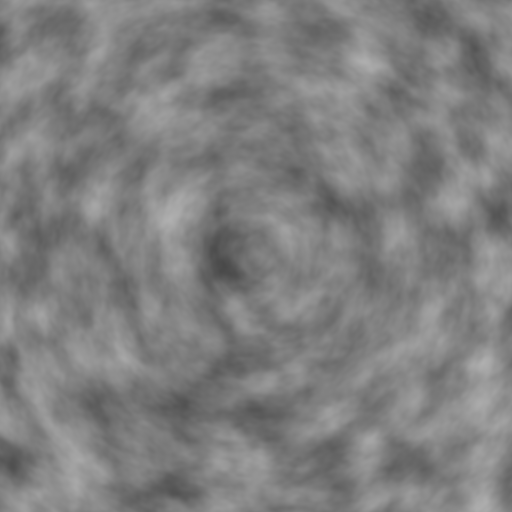
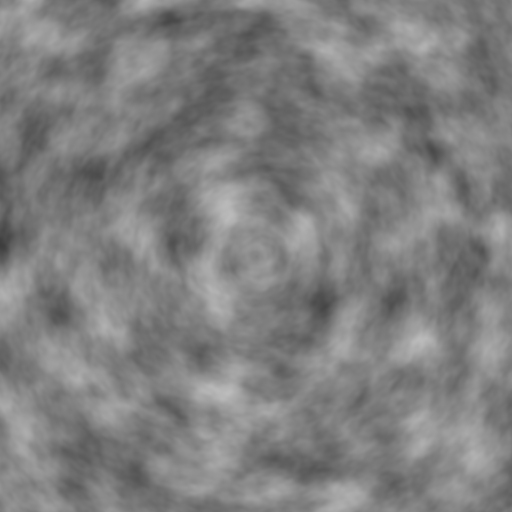
progress

diff --git a/src/bin/test.rs b/src/bin/test.rs
@@ -9,7 +9,7 @@ const WIDTH: u32 = 512;
 const HEIGHT: u32 = 512;
 
 // const R: f64 = 2f64.sqrt() / 2.0;
-const R: f64 = 1.0;
+const R: f64 = 0.8;
 
 fn main() {
     let mut noise_map = NoiseMap::new(default_layers(4, 0.5));
@@ -28,7 +28,6 @@ fn main() {
             img.put_pixel(x, y, Luma([value]));
         }
     }
-
     img.save("output.png").expect("Failed to save image");
 
     // noise_map.show();

diff --git a/src/bin/test2.rs b/src/bin/test2.rs
@@ -38,7 +38,8 @@ fn test_nmap(n: u32) {
     let mut rng = rand::rng();
     let mut nm = NoiseMap::new(default_layers(n, 0.5));
 
-    let mut vec: Vec<f64> = (0..N)
+    let mut vec: Vec<f64> = Vec::with_capacity(N as usize);
+    vec = (0..N)
         .map(|_| nm.get(&vec![rng.random::<f64>() * N as f64 / 10.0, rng.random::<f64>() * N as f64 / 10.0]))
         .collect();
 
